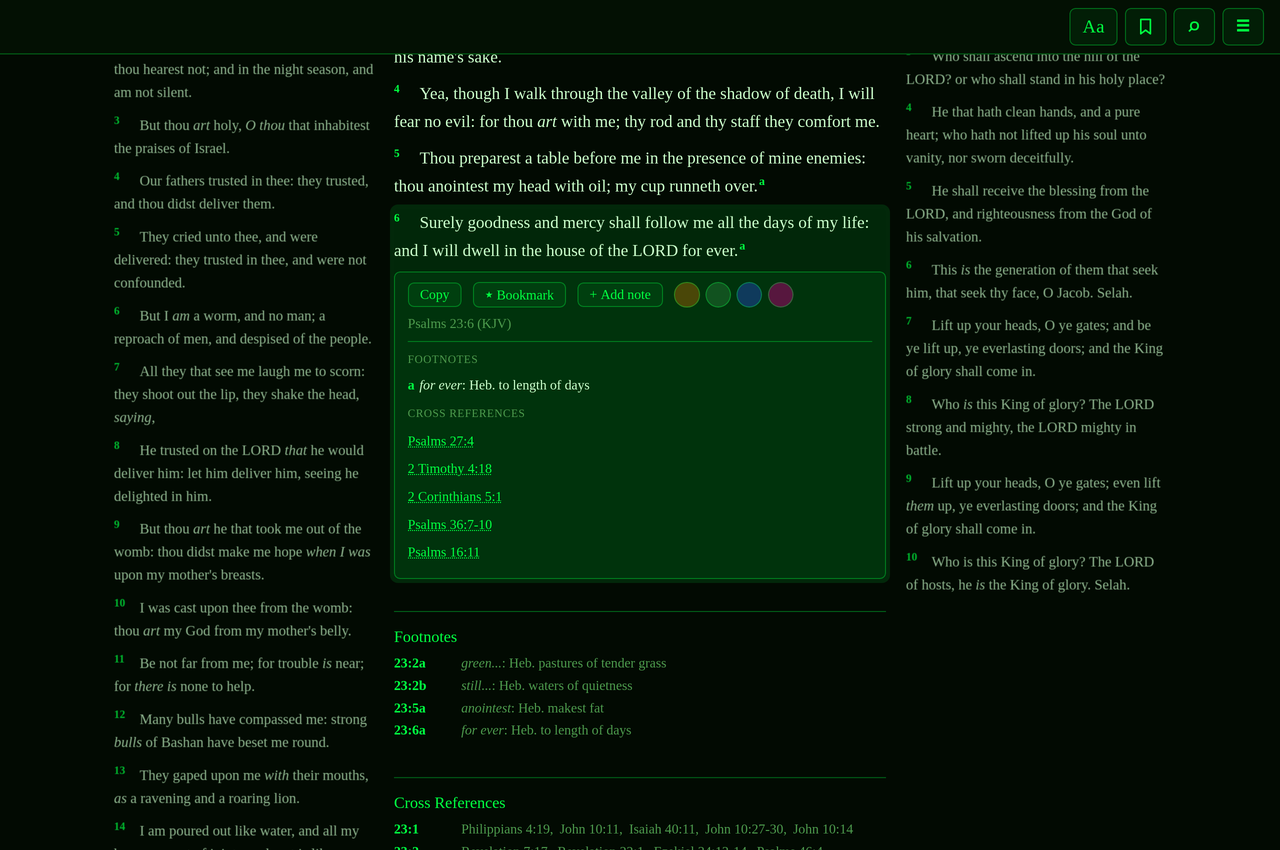
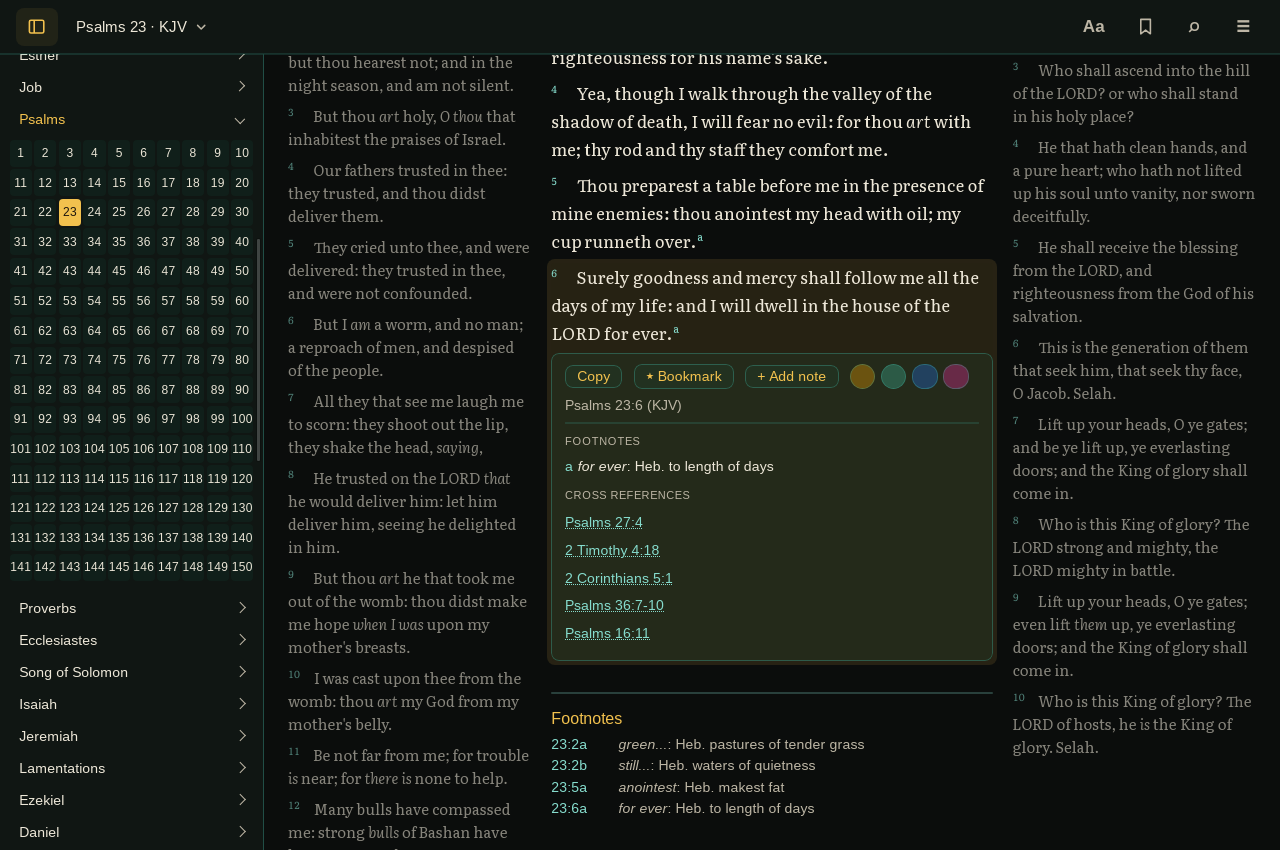
chore(site): recapture every app image in Chi Rho with the new layout
capture_screenshots.py: THEMES gains chi-rho, vellum and system, in the app's order, and the feature captures default to chi-rho, the app's default theme. The scenes use the new layout with no masthead or book grid: at 1280 wide the picker is the sidebar, and the reading scene starts at the top of the page. System has no theme tile (it shows Chi Rho or Vellum). The README's seven screenshots, made until now by uncommitted scripts, are scenes in the tool too (--readme, at 1x and their final sizes). The scale is set rather than defaulted, because sessions export GDK_SCALE=1, and the 2x captures use WebKit's page zoom: with GDK_SCALE=2 WebKit spaced Literata's letters unevenly. The select scene starts at verse 1 so its note still fits.

build_images.sh: the hero, og-image and theme crops move right of the sidebar and stay inside John 3 and its neighbours (the theme crop is 940x568, from 1060x640, so no neighbouring text shows). Chi Rho and Vellum get tiles.

Every README screenshot and every site image of the app is recaptured at its old name and pixel size: screenshots/*.png (1280x850, 1280x750, 1280x1000), hero, compare, search, select, og-image.jpg (1200x630, made from the reading capture by the same script) and the six theme tiles (720x435). theme-chi-rho.webp and theme-vellum.webp are new, at the same size and framing. A second full capture matched these pixel for pixel. site/README.md says the screenshots are in Chi Rho and how to make the README's.

diff --git a/tools/site/capture_screenshots.py b/tools/site/capture_screenshots.py
@@ -11,17 +11,22 @@ the frontend tests do. Nothing is drawn over or composited in.
 
 Usage, from the repository root:
     cargo build --manifest-path src-tauri/Cargo.toml --example frontend_bridge
-    python3 tools/site/capture_screenshots.py OUT_DIR [--theme NAME] [SCENE ...]
+    PYTHONDONTWRITEBYTECODE=1 python3 tools/site/capture_screenshots.py OUT_DIR [--theme NAME] [SCENE ...]
+    PYTHONDONTWRITEBYTECODE=1 python3 tools/site/capture_screenshots.py --readme OUT_DIR [--theme NAME] [SCENE ...]
 
---theme sets the theme of the feature screenshots (reading, search, compare,
-select); it defaults to matrix, the site's. The theme-* scenes are always in
-their own themes. Naming scenes captures only those. The first-run welcome is
-marked as seen and no highlights are set, and a capture fails if either is on
-screen.
+--theme sets the theme of the feature screenshots (the site's reading,
+search, compare and select, or the README's); it defaults to chi-rho, the
+app's default theme. The theme-* scenes are always in their own themes.
+Naming scenes captures only those. The first-run welcome is marked as seen
+and no highlights are set, and a capture fails if either is on screen.
 
-Writes raw PNGs (at 2x) to OUT_DIR; cropping and WebP conversion are
-separate (see site/README.md). Needs PyGObject with WebKit2 4.1 and a
-display (it never shows a window).
+Without --readme, writes the site's raw PNGs (at 2x) to OUT_DIR; cropping
+and WebP conversion are separate (see site/README.md). With --readme, writes
+the README's screenshots at 1x, at their final names and sizes (OUT_DIR
+can be screenshots/ itself). Every scene uses the app's default layout for its
+window size: from 1200px wide the book and chapter picker is a sidebar on
+the left, and narrower it's a popover from the reference button, closed.
+Needs PyGObject with WebKit2 4.1 and a display (it never shows a window).
 """
 
 import functools
@@ -34,7 +39,11 @@ import tempfile
 import threading
 from pathlib import Path
 
-os.environ.setdefault("GDK_SCALE", "2")
+# One device pixel per GTK pixel. The site's 2x captures use the page's
+# zoom instead (see Capturer): with GDK_SCALE=2, WebKit lays text out at 1x
+# and draws it at 2x, which spaces Literata's letters unevenly. Set, not
+# defaulted, as sessions often export their own GDK_SCALE.
+os.environ["GDK_SCALE"] = "1"
 # Force XWayland: the session exports GDK_BACKEND=wayland,..., and GTK3's
 # key-simulation test helpers segfault on Wayland.
 os.environ["GDK_BACKEND"] = "x11"
@@ -149,7 +158,7 @@ def book_id(name):
 
 
 class Capturer:
-    def __init__(self, out_dir, base_url, bridge):
+    def __init__(self, out_dir, base_url, bridge, scale=1):
         self.out_dir = Path(out_dir)
         self.base_url = base_url
         self.bridge = bridge
@@ -157,6 +166,10 @@ class Capturer:
         self.ucm.register_script_message_handler("invoke")
         self.ucm.connect("script-message-received::invoke", self.on_invoke)
         self.view = WebKit2.WebView.new_with_user_content_manager(self.ucm)
+        # `scale` device pixels per CSS pixel: a window `scale` times the
+        # scene's size, zoomed so the page still sees the scene's size.
+        self.scale = scale
+        self.view.set_zoom_level(scale)
         self.window = Gtk.OffscreenWindow()
         self.window.add(self.view)
         self.window.show_all()
@@ -196,6 +209,7 @@ class Capturer:
             INIT_JS % {"prefs": json.dumps(prefs)},
             WebKit2.UserContentInjectedFrames.TOP_FRAME,
             WebKit2.UserScriptInjectionTime.START, None, None))
+        size = (size[0] * self.scale, size[1] * self.scale)
         self.window.resize(*size)
         self.view.set_size_request(*size)
 
@@ -246,10 +260,11 @@ def feature_scenes(theme):
     """The site's feature screenshots, in `theme`."""
     look = {**SEEN, "gospel-getter-theme": theme}
     return [
-        # Reading in context: the chapter with its neighbours on either side.
-        # The headings sit where build_images.sh's hero and og crops expect.
+        # Reading in context: the chapter with its neighbours on either side,
+        # the picker's sidebar on the left. The page is at its top, so the
+        # headings sit where build_images.sh's hero and og crops expect.
         dict(name="reading", size=(1280, 800), prefs=look, position=("John", 3, "web"),
-             steps=SCROLL_TO % ("document.querySelector('.chapter-heading')", 86)),
+             steps="window.scrollTo(0, 0);"),
         # Searching the words of the text.
         dict(name="search", size=(1280, 800), prefs=look, position=("John", 15, "web"),
              steps="""
@@ -266,6 +281,7 @@ def feature_scenes(theme):
              """ + SCROLL_TO % ("document.querySelector('.chapter-heading')", 40)),
         # A selected range with Copy, Bookmark and + Add note, earlier
         # bookmarks starred, and the range's note under its actions.
+        # From verse 1, so the note fits below.
         dict(name="select", size=(1280, 800), prefs=look, position=("1 Corinthians", 13, "web"),
              bookmarks=[("1 Corinthians", 13, 1, 3)],
              notes=[("1 Corinthians", 13, 4, 7,
@@ -275,17 +291,84 @@ def feature_scenes(theme):
                 __gg.click(__gg.verse(4));
                 __gg.click(__gg.verse(7), { shiftKey: true });
                 await __gg.until(() => document.querySelector('.verse-notes'), 'the notes on it');
-             """ + SCROLL_TO % ("document.querySelector('.chapter-heading')", 40)),
+             """ + SCROLL_TO % ("__gg.verse(1)", 4)),
     ]
 
 
-THEMES = ["vaporwave", "classic-dark", "classic-light", "matrix", "beast-slayer", "hot-pink"]
-# The "Make it yours" strip: the same passage in each theme.
+def readme_scenes(theme):
+    """The README's screenshots, in `theme`, at their final sizes."""
+    look = {**SEEN, "gospel-getter-theme": theme}
+    return [
+        # John 3 in the KJV with John 2 and 4, the reference in the bar and
+        # John's chapters open in the sidebar.
+        dict(name="reading-neighboring-chapters", size=(1280, 850), prefs=look,
+             position=("John", 3, "kjv"), steps="window.scrollTo(0, 0);"),
+        # Searching the words of the text.
+        dict(name="search-results", size=(1280, 1000), prefs=look, position=("John", 3, "web"),
+             steps="""
+                __gg.click(document.getElementById('search-toggle'));
+                __gg.type(document.getElementById('search-input'), 'love one another');
+                await __gg.until(() => document.querySelector('#search-results .search-result'), 'results');
+                window.scrollTo(0, 0);
+             """),
+        # Romans 14 from verse 21 in compare mode: the WEB numbers 24-26, the
+        # KJV doesn't.
+        dict(name="compare-translations", size=(1280, 750),
+             prefs={**look, "gospel-getter-compare": "on"}, position=("Romans", 14, "web"),
+             steps="""
+                await __gg.until(() => document.querySelector('.compare-grid'), 'compare grid');
+             """ + SCROLL_TO % ("__gg.verse(21, 'kjv')", 40)),
+        # John 3:16-18 selected, with its actions and citation.
+        dict(name="copy-verse-range", size=(1280, 850), prefs=look, position=("John", 3, "web"),
+             steps="""
+                __gg.click(__gg.verse(16));
+                __gg.click(__gg.verse(18), { shiftKey: true });
+                await __gg.until(() => document.querySelector('.verse-actions'), 'verse actions');
+             """ + SCROLL_TO % ("__gg.verse(12)", 8)),
+        # John 3:16-21 selected, showing its three notes, from verse 18.
+        dict(name="notes", size=(1280, 850), prefs=look, position=("John", 3, "web"),
+             notes=[
+                 ("John", 3, 16, 16,
+                  "The whole gospel in one verse: God loves first, and his love gives."),
+                 ("John", 3, 16, 18,
+                  "Verse 17 matters as much as 16: he came to save, not to condemn. "
+                  "The judgment in 18 is what unbelief already chooses."),
+                 ("John", 3, 21, 21,
+                  "Coming to the light is something you do, not only something you believe."),
+             ],
+             steps="""
+                __gg.click(__gg.verse(16));
+                __gg.click(__gg.verse(21), { shiftKey: true });
+                await __gg.until(() => document.querySelectorAll('.verse-notes .note-card').length === 3, 'notes');
+             """ + SCROLL_TO % ("__gg.verse(18)", 4)),
+        # Psalm 23:4-6 in the KJV, verse 6's footnote open.
+        dict(name="footnotes", size=(1280, 850), prefs=look, position=("Psalms", 23, "kjv"),
+             steps="""
+                __gg.click(__gg.verse(6).querySelector('.fn-marker'));
+                await __gg.until(() => document.querySelector('.xref-popup:not([hidden])'), 'the popup');
+             """ + SCROLL_TO % ("__gg.verse(4)", 24)),
+        # Psalm 23 with verses 1-4 bookmarked, and the Library's Bookmarks tab.
+        dict(name="bookmarks", size=(1280, 850), prefs=look, position=("Psalms", 23, "kjv"),
+             bookmarks=[("John", 3, 16, 16), ("Romans", 8, 28, 28), ("Psalms", 23, 1, 4)],
+             steps="""
+                __gg.click(document.getElementById('library-toggle'));
+                __gg.click(document.getElementById('library-tab-bookmarks'));
+                await __gg.until(() => document.querySelectorAll('#bookmark-list .bookmark-preview').length === 3, 'previews');
+             """ + SCROLL_TO % ("document.querySelector('.chapter-main .chapter-heading')", 36)),
+    ]
+
+
+# Every theme, in the app's order (Aa).
+THEMES = ["chi-rho", "vellum", "system", "vaporwave", "classic-dark", "classic-light", "matrix",
+          "beast-slayer", "hot-pink"]
+# The "Make it yours" strip: the same passage in each theme. System has no
+# tile of its own: it shows Chi Rho or Vellum, following the computer's
+# dark or light setting.
 THEME_SCENES = [
     dict(name=f"theme-{theme}", size=(1280, 800), prefs={**SEEN, "gospel-getter-theme": theme},
          position=("Psalms", 23, "web"),
          steps=SCROLL_TO % ("document.querySelector('.chapter-heading')", 40))
-    for theme in THEMES
+    for theme in THEMES if theme != "system"
 ]
 
 
@@ -302,7 +385,10 @@ def serve(directory):
 
 def main():
     args = sys.argv[1:]
-    theme = "matrix"
+    readme = "--readme" in args
+    if readme:
+        args.remove("--readme")
+    theme = "chi-rho"
     if "--theme" in args:
         i = args.index("--theme")
         theme = args[i + 1]
@@ -315,8 +401,10 @@ def main():
     server = serve(str(ROOT / "ui"))
     with tempfile.TemporaryDirectory() as tmp:
         bridge = Bridge(Path(tmp) / "gospel_getter.db")
-        capturer = Capturer(out_dir, f"http://127.0.0.1:{server.server_port}/index.html", bridge)
-        for scene in feature_scenes(theme) + THEME_SCENES:
+        capturer = Capturer(out_dir, f"http://127.0.0.1:{server.server_port}/index.html", bridge,
+                            scale=1 if readme else 2)
+        scenes = readme_scenes(theme) if readme else feature_scenes(theme) + THEME_SCENES
+        for scene in scenes:
             if not only or scene["name"] in only:
                 capturer.scene(**scene)
         bridge.proc.stdin.close()

diff --git a/site/README.md b/site/README.md
@@ -56,8 +56,11 @@ version bump: until a release has those names, the links 404.
 - The screenshots are the real app (`ui/index.html`) showing the real
   bundled KJV and WEB text, in WebKitGTK, the engine the Linux app uses.
   The feature screenshots (hero, search, copy, bookmark and note, compare, and
-  `og-image.jpg`) are in the Matrix theme; the "Make it yours" strip shows
-  all six themes.
+  `og-image.jpg`) are in Chi Rho, the app's default theme, in a 1280×800
+  window, where the book and chapter picker is a sidebar; the "Make it
+  yours" strip shows every theme but System, which is Chi Rho or Vellum as
+  the computer is set. The README's screenshots (`screenshots/`) come from
+  the same script with `--readme`, at their final sizes.
   `tools/site/capture_screenshots.py` loads the page offscreen and answers
   its Tauri calls with the app's real command code, through the frontend
   tests' bridge (`src-tauri/examples/frontend_bridge.rs`) and a throwaway
@@ -68,12 +71,13 @@ version bump: until a release has those names, the links 404.
 
   ```bash
   cargo build --manifest-path src-tauri/Cargo.toml --example frontend_bridge
-  python3 tools/site/capture_screenshots.py /tmp/gg-raw            # everything
-  python3 tools/site/capture_screenshots.py /tmp/gg-raw reading search compare select
+  PYTHONDONTWRITEBYTECODE=1 python3 tools/site/capture_screenshots.py /tmp/gg-raw            # everything
+  PYTHONDONTWRITEBYTECODE=1 python3 tools/site/capture_screenshots.py /tmp/gg-raw reading search compare select
   tools/site/build_images.sh /tmp/gg-raw
+  PYTHONDONTWRITEBYTECODE=1 python3 tools/site/capture_screenshots.py --readme screenshots   # the README's, in place
   ```
 
-  `--theme NAME` sets the feature screenshots' theme (default `matrix`);
+  `--theme NAME` sets the feature screenshots' theme (default `chi-rho`);
   naming scenes captures only those, and `build_images.sh` leaves any
   theme tile it has no capture for as it is. Every capture marks the
   first-run welcome as seen and sets no highlights, and fails if either
